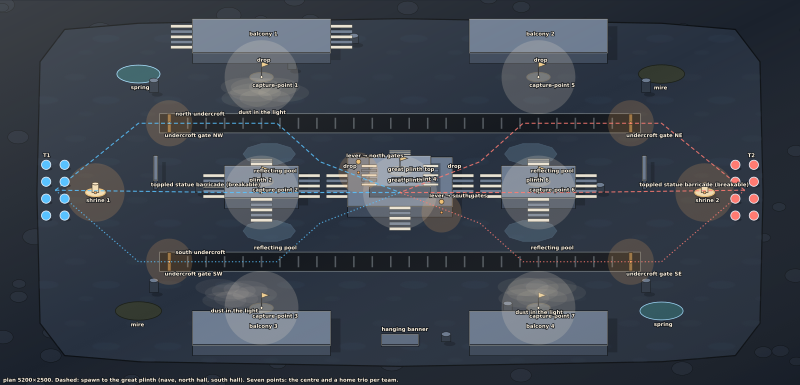
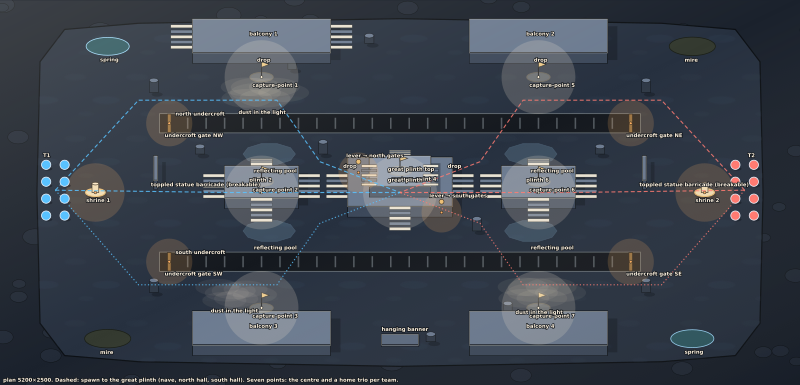
#3430: Warden's Gallery: hall routes clear of the undercroft gates, stones off stairs, pillars off plinths, zones off routes

diff --git a/docs/art/3075-wardens-gallery.md b/docs/art/3075-wardens-gallery.md
@@ -58,20 +58,20 @@ mirror makes the walk gap 0 %: the gap the structure gives, not a promise about 
 | Spawn to the great plinth (T1 / T2) | Walk          |
 | ----------------------------------- | ------------- |
 | nave                                | 12.4 / 12.4 s |
-| north hall                          | 14.0 / 14.0 s |
-| south hall                          | 14.1 / 14.1 s |
+| north hall                          | 15.2 / 15.2 s |
+| south hall                          | 15.4 / 15.4 s |
 
 **Per capture point** (own team / other team; the pairs mirror, so P1/P5, P2/P6, P3/P7 are equal for
 their owners, and the centre is 0 %):
 
 | Point             | own spawn   | other spawn |
 | ----------------- | ----------- | ----------- |
-| P1 / P5 (floor)   | 9.5–10.1 s  | 19.4–24.3 s |
-| P2 / P6 (plinth)  | 7.4 s       | 20.1 s      |
-| P3 / P7 (floor)   | 9.6–10.1 s  | 19.5–24.2 s |
-| P4 (great plinth) | 15.1–15.2 s | 15.1–15.2 s |
+| P1 / P5 (floor)   | 9.5–10.1 s  | 19.2–19.4 s |
+| P2 / P6 (plinth)  | 7.4 s       | 21.6–22.5 s |
+| P3 / P7 (floor)   | 9.6–10.1 s  | 19.4 s      |
+| P4 (great plinth) | 16.5–16.6 s | 16.5–16.6 s |
 
-Spawn to fight stays under 16 s at the centre (< 25 s). Only 8v8 exists today (`teamSizes [8]`).
+Spawn to the centre point is under 17 s, to a far point under 23 s (halls run at y 650 and 1850, beside the undercroft gates, not through them) (< 25 s). Only 8v8 exists today (`teamSizes [8]`).
 
 **High ground:** the great plinth's top overlooks P4 and the nave; each plinth its point; the four balconies
 overlook P1/P3 and P5/P7 (x 1250..2150 and 3050..3950), the same for each team
